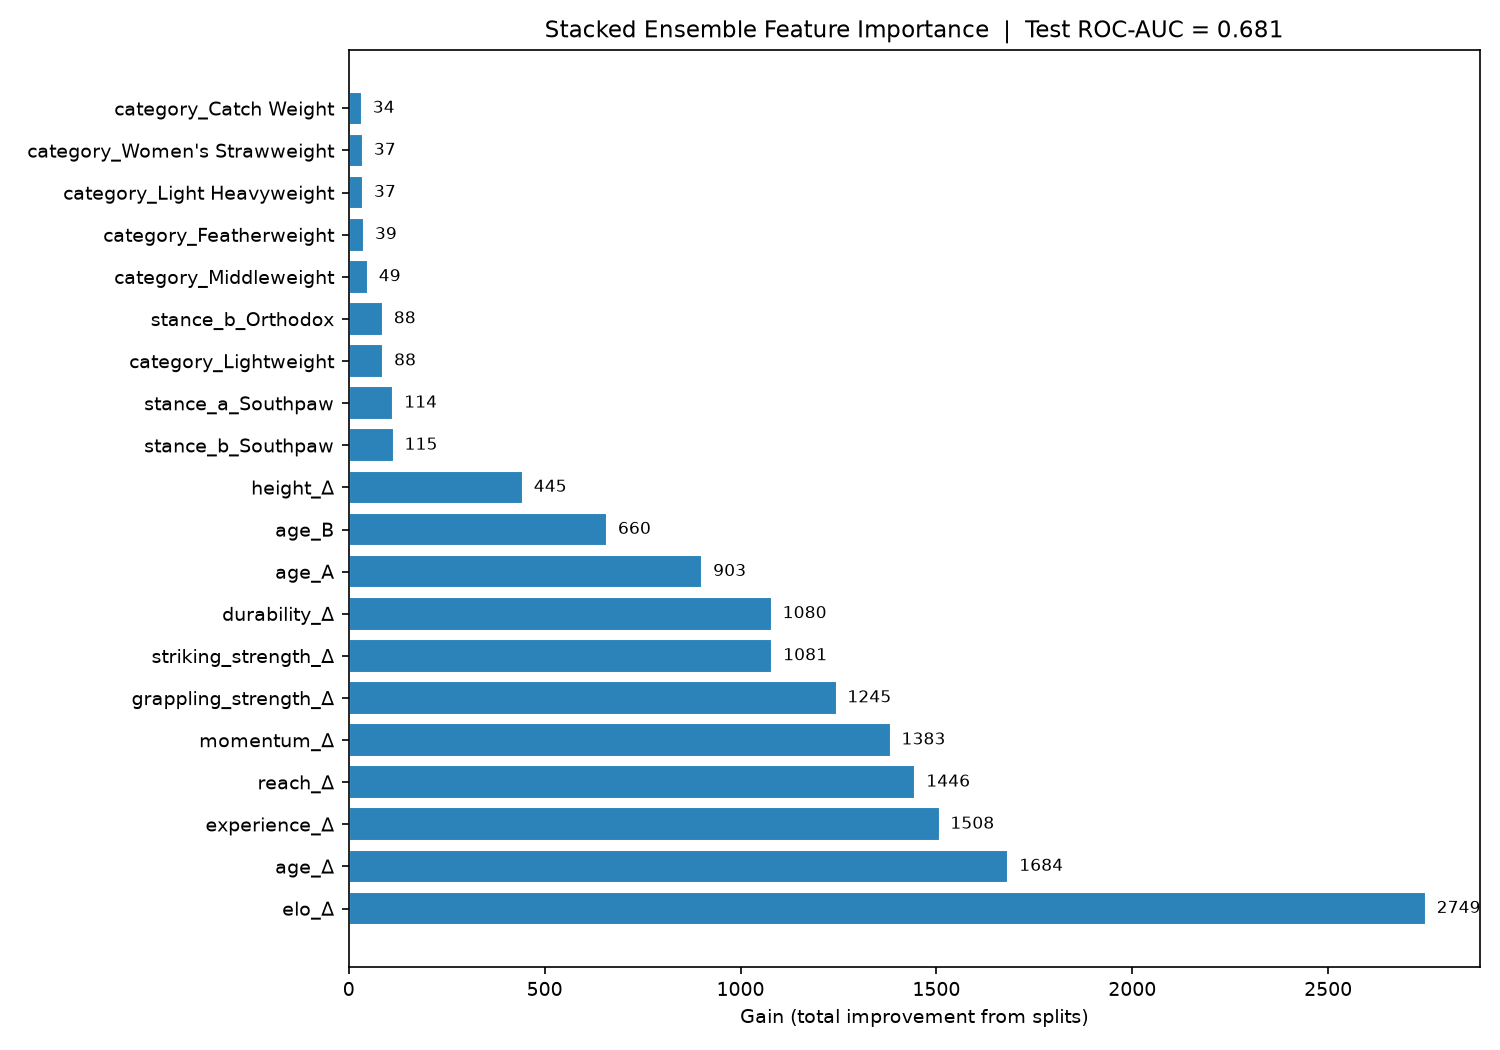
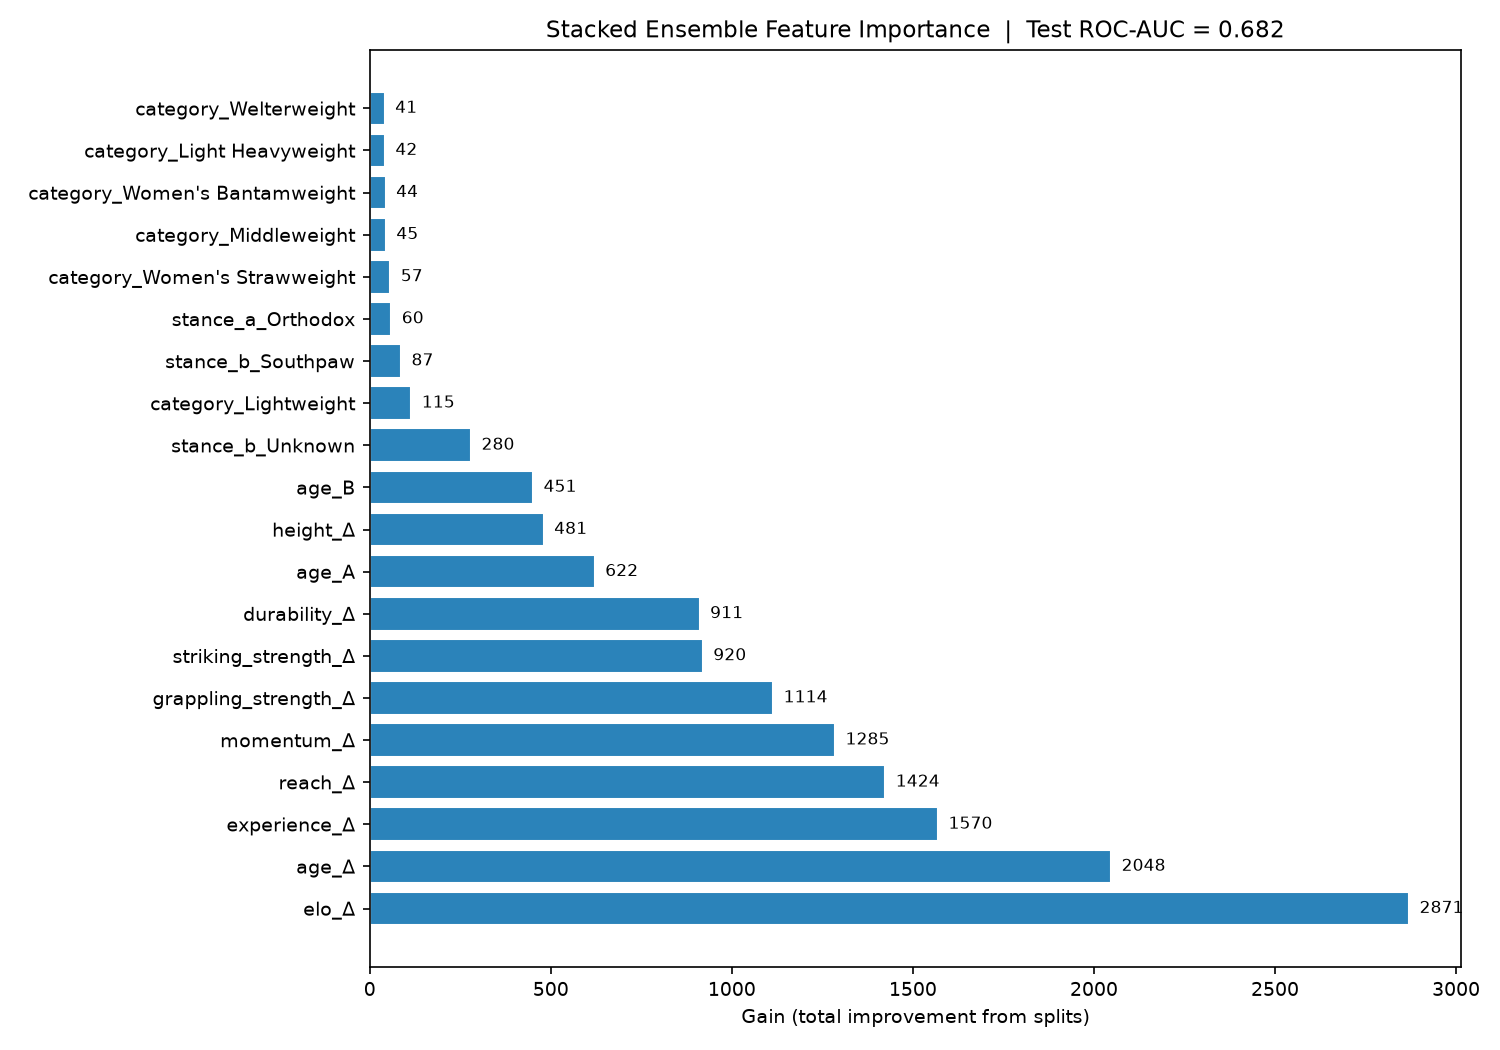
feat: calibrate stacked ensemble probabilities (Platt/isotonic, nested OOF)
Add PlattCalibrator and nested-CV OOF calibration to ChronologicalStackingEnsemble; predict_proba returns calibrated probabilities. train_model fits isotonic and Platt calibrators, picks the winner by test Brier, stores it on the model, and logs the comparison. Remove class_weight=balanced from base and meta models (probabilities were skewed).

diff --git a/src/train_model.py b/src/train_model.py
@@ -4,6 +4,7 @@ import lightgbm as lgb
 import xgboost as xgb
 from sklearn.metrics import roc_auc_score, accuracy_score, log_loss, brier_score_loss
 from sklearn.linear_model import LogisticRegression
+from sklearn.isotonic import IsotonicRegression
 from sklearn.impute import SimpleImputer
 from sklearn.model_selection import TimeSeriesSplit
 from sklearn.pipeline import Pipeline
@@ -11,7 +12,7 @@ from sklearn.preprocessing import StandardScaler
 import joblib
 import warnings
 
-from ensemble_utils import ChronologicalStackingEnsemble
+from ensemble_utils import ChronologicalStackingEnsemble, PlattCalibrator
 from config import DATASET_PATH, MODEL_PATH, FEATURE_COLS_PATH, BASE_DIR
 warnings.filterwarnings("ignore")
 
@@ -92,7 +93,7 @@ def main():
         params = {k: np.random.choice(v) for k, v in lgb_param_grid.items()}
         m = lgb.LGBMClassifier(
             n_estimators=2000, verbose=-1, random_state=42, missing=float("nan"),
-            class_weight="balanced", max_depth=-1,
+            max_depth=-1,
             **params,
         )
         m.fit(X_train, y_train, eval_set=[(X_val, y_val)], eval_metric="logloss",
@@ -168,7 +169,6 @@ def main():
             verbose=-1,
             random_state=42,
             missing=float("nan"),
-            class_weight="balanced",
             max_depth=-1,
             **best_lgb_params,
         )
@@ -190,7 +190,7 @@ def main():
     lr_base = Pipeline([
         ("imputer", SimpleImputer(strategy="median")),
         ("scaler", StandardScaler()),
-        ("logreg", LogisticRegression(max_iter=3000, class_weight="balanced", solver="lbfgs")),
+        ("logreg", LogisticRegression(max_iter=3000, solver="lbfgs")),
     ])
 
     stacking_model = ChronologicalStackingEnsemble(
@@ -199,8 +199,12 @@ def main():
             ("xgb", build_xgb_model()),
             ("logreg", lr_base),
         ],
-        final_estimator=LogisticRegression(max_iter=3000, class_weight="balanced", solver="lbfgs"),
+        final_estimator=LogisticRegression(max_iter=3000, solver="lbfgs"),
         cv=TimeSeriesSplit(n_splits=5),
+        calibrators={
+            "isotonic": IsotonicRegression(out_of_bounds="clip"),
+            "platt": PlattCalibrator(),
+        },
     )
 
     print(f"\n{'='*50}")
@@ -209,11 +213,24 @@ def main():
     stacking_model.fit(X_train_all, y_train_all)
 
     final_model = stacking_model
-    y_prob = final_model.predict_proba(X_test)[:, 1]
+
+    raw_prob = final_model.predict_proba(X_test)[:, 1]
+    raw_ll = log_loss(y_test, raw_prob)
+    raw_bs = brier_score_loss(y_test, raw_prob)
+
+    calib_results = {"raw": {"prob": raw_prob, "ll": raw_ll, "bs": raw_bs}}
+    for name in ("isotonic", "platt"):
+        final_model.calibrator_name = name
+        p = final_model.predict_proba(X_test)[:, 1]
+        calib_results[name] = {"prob": p, "ll": log_loss(y_test, p), "bs": brier_score_loss(y_test, p)}
+    best_name = min(("isotonic", "platt"), key=lambda n: calib_results[n]["bs"])
+    final_model.calibrator_name = best_name
+
+    y_prob = calib_results[best_name]["prob"]
     y_pred = final_model.predict(X_test)
     acc = accuracy_score(y_test, y_pred)
-    ll = log_loss(y_test, y_prob)
-    bs = brier_score_loss(y_test, y_prob)
+    ll = calib_results[best_name]["ll"]
+    bs = calib_results[best_name]["bs"]
     roc = roc_auc_score(y_test, y_prob)
 
     print(f"\n{'='*50}")
@@ -224,6 +241,14 @@ def main():
     print(f"Brier score:  {bs:.4f}")
     print(f"ROC-AUC:      {roc:.4f}")
     print(f"LGB rounds:   {best_n_lgb}  |  XGB rounds:  {best_n_xgb}")
+
+    print(f"\n{'Probability calibration (test set)':^50s}")
+    print(f"  {'Method':<10s} {'Log Loss':>9s} {'Brier':>8s} {'best':>5s}")
+    print(f"  {'-'*35}")
+    for name in ("raw", "isotonic", "platt"):
+        tag = "  <-" if name == best_name else ""
+        print(f"  {name:<10s} {calib_results[name]['ll']:9.4f} {calib_results[name]['bs']:8.4f}{tag:>5s}")
+    print(f"  Calibrator OOF points: {len(final_model.oof_calib_probs_)}")
 
     # Probability calibration of the ensemble predictions
     bins = np.linspace(0.0, 1.0, 11)
@@ -318,6 +343,16 @@ def main():
         "best_n_xgb": best_n_xgb,
         "ensemble_estimators": ["lightgbm", "xgboost", "logistic_regression"],
         "ensemble_cv": "TimeSeriesSplit(n_splits=5)",
+        "calibration": {
+            "method": best_name,
+            "n_oof": int(len(final_model.oof_calib_probs_)),
+            "cal_test_log_loss": ll,
+            "cal_test_brier": bs,
+            "candidates": {
+                n: {"test_log_loss": calib_results[n]["ll"], "test_brier": calib_results[n]["bs"]}
+                for n in ("raw", "isotonic", "platt")
+            },
+        },
         "test_roc_auc": roc,
         "test_accuracy": acc,
         "feature_importance": importances.to_dict(orient="records"),

diff --git a/src/ensemble_utils.py b/src/ensemble_utils.py
@@ -1,16 +1,50 @@
+import copy
 import numpy as np
 from sklearn.base import clone
+from sklearn.model_selection import TimeSeriesSplit
+
+
+def _logit(p):
+    p = np.clip(np.asarray(p, dtype=float), 1e-6, 1 - 1e-6)
+    return np.log(p / (1 - p))
+
+
+class PlattCalibrator:
+    """Platt scaling: logistic regression on the log-odds of the raw probability."""
+
+    def __init__(self, C=1.0, max_iter=3000):
+        self.C = C
+        self.max_iter = max_iter
+
+    def fit(self, X, y):
+        from sklearn.linear_model import LogisticRegression
+
+        X = np.asarray(X)
+        logit = _logit(X[:, 0])
+        self.lr_ = LogisticRegression(C=self.C, max_iter=self.max_iter, solver="lbfgs")
+        self.lr_.fit(logit.reshape(-1, 1), np.asarray(y))
+        return self
+
+    def predict(self, X):
+        X = np.asarray(X)
+        logit = _logit(X[:, 0])
+        return self.lr_.predict_proba(logit.reshape(-1, 1))[:, 1]
 
 
 class ChronologicalStackingEnsemble:
-    def __init__(self, estimators, final_estimator, cv):
+    def __init__(self, estimators, final_estimator, cv, calibrators=None):
         self.estimators = estimators
         self.final_estimator = final_estimator
         self.cv = cv
+        self.calibrators = calibrators
+        self.calibrator_name = None
 
     @staticmethod
     def _as_frame(X):
         return X if hasattr(X, "iloc") else np.asarray(X)
+
+    def _select_rows(self, X, idx):
+        return X.iloc[idx] if hasattr(X, "iloc") else X[idx]
 
     def fit(self, X, y):
         X_frame = self._as_frame(X)
@@ -23,12 +57,8 @@ class ChronologicalStackingEnsemble:
             if len(train_idx) == 0 or len(val_idx) == 0:
                 continue
 
-            if hasattr(X_frame, "iloc"):
-                X_train_fold = X_frame.iloc[train_idx]
-                X_val_fold = X_frame.iloc[val_idx]
-            else:
-                X_train_fold = X_frame[train_idx]
-                X_val_fold = X_frame[val_idx]
+            X_train_fold = self._select_rows(X_frame, train_idx)
+            X_val_fold = self._select_rows(X_frame, val_idx)
             y_train_fold = y_array[train_idx]
             fold_predictions = []
 
@@ -56,7 +86,34 @@ class ChronologicalStackingEnsemble:
         final_estimator = clone(self.final_estimator)
         final_estimator.fit(self.oof_features_, self.oof_targets_)
         self.final_estimator_ = final_estimator
+
+        if self.calibrators:
+            self._fit_calibrators(X_frame, y_array)
         return self
+
+    def _fit_calibrators(self, X, y):
+        outer = TimeSeriesSplit(n_splits=5)
+        p_oof = []
+        y_oof = []
+        for train_idx, val_idx in outer.split(X):
+            if len(train_idx) == 0 or len(val_idx) == 0:
+                continue
+            X_tr = self._select_rows(X, train_idx)
+            X_va = self._select_rows(X, val_idx)
+            fold = ChronologicalStackingEnsemble(
+                self.estimators, self.final_estimator, self.cv, calibrators=None)
+            fold.fit(X_tr, y[train_idx])
+            p_oof.append(fold.predict_proba(X_va)[:, 1])
+            y_oof.append(y[val_idx])
+
+        self.oof_calib_probs_ = np.concatenate(p_oof)
+        self.oof_calib_targets_ = np.concatenate(y_oof)
+
+        self.calibrators_ = {}
+        for name, template in self.calibrators.items():
+            calib = copy.deepcopy(template)
+            calib.fit(self.oof_calib_probs_.reshape(-1, 1), self.oof_calib_targets_)
+            self.calibrators_[name] = calib
 
     def _stack_features(self, X):
         X_frame = self._as_frame(X)
@@ -68,7 +125,14 @@ class ChronologicalStackingEnsemble:
 
     def predict_proba(self, X):
         meta_features = self._stack_features(X)
-        return self.final_estimator_.predict_proba(meta_features)
+        full = self.final_estimator_.predict_proba(meta_features)
+        name = getattr(self, "calibrator_name", None)
+        if name and hasattr(self, "calibrators_") and name in self.calibrators_:
+            raw = full[:, 1]
+            calib = self.calibrators_[name].predict(raw.reshape(-1, 1))
+            calib = np.clip(np.asarray(calib, dtype=float).ravel(), 1e-6, 1 - 1e-6)
+            return np.column_stack([1.0 - calib, calib])
+        return full
 
     def predict(self, X):
         return (self.predict_proba(X)[:, 1] >= 0.5).astype(int)

diff --git a/AGENTS.md b/AGENTS.md
@@ -4,7 +4,7 @@
 1. `python src/scraping/build_events_index.py` → `data/events_index.json` (skips upcoming/unfinished events)
 2. `python src/scraping/scrape_ufc.py` → `data/fights.json`, `data/fighters_cache.json`
 3. `python src/feature_engineering.py` → `data/dataset.csv`
-4. `python src/train_model.py` → `models/ufc_stacking_ensemble.pkl` + `_meta.pkl` + feature importance PNG (run manually)
+4. `python src/train_model.py` → `models/ufc_stacking_ensemble.pkl` + `_meta.pkl` + feature importance PNG (run manually; also fits isotonic/Platt probability calibrators on nested-CV OOF and picks the best by test Brier — slow)
 5. `python src/prediction/predict.py` — interactive CLI (SHAP). Args: `--model`, `--features`.
 6. `python src/prediction/predict_event.py --event "UFC 328: ..."` — event JSON with winner probabilities. Args: `--exact`, `--model-path`, `--features-path`.
 7. `python src/prediction/predict_batch.py "FighterA,FighterB,Category,5" "FighterC,FighterD"` — batch table. Each arg: `F1,F2[,WeightClass[,Rounds]]`. Rounds defaults 3, WeightClass defaults "Catch Weight". No model-path CLI flags (hardcoded paths). Quirk: in the 3-field form `F1,F2,X`, `X` is parsed as rounds if it's `"3"`/`"5"`, otherwise as weight class.
@@ -22,7 +22,7 @@ python src/feature_engineering.py
 - Activate the venv first — `.venv/bin/activate` on Linux/macOS, `.venv/Scripts/activate` on Windows. All scripts from repo root.
 - Scraper needs `playwright install chromium` before first run (both `build_events_index.py` and `scrape_ufc.py` use Playwright async headless Chromium).
 - Scrapers are resumable: `scrape_ufc.py` only processes events with `"scrapped": false` in `data/events_index.json`, flipping the flag per event; `build_events_index.py` preserves existing entries.
-- Step 4 runs 50 random LightGBM + 20 random XGBoost hyperparameter trials (early stopping) — slow; run it manually and let it finish.
+- Step 4 runs 50 random LightGBM + 20 random XGBoost hyperparameter trials (early stopping), then a nested-CV pass to calibrate probabilities — slow; run it manually and let it finish. Calibrators are fitted on out-of-fold stacking probabilities via an outer `TimeSeriesSplit(n_splits=5)` (no lookahead); `isotonic` and `platt` (`PlattCalibrator` in `ensemble_utils.py`) are compared on the test set by Brier score and the winner is stored on the model (`model.calibrator_name`). `predict_proba` returns calibrated probabilities; `predict` still thresholds at 0.5.
 - Model artifacts use Git LFS (`*.pkl filter=lfs` in `.gitattributes`). No linting, typechecking, or test harness.
 
 ## Architecture
@@ -31,7 +31,7 @@ python src/feature_engineering.py
 `ChronologicalStackingEnsemble` (`src/ensemble_utils.py`) — **LightGBM + XGBoost + LogisticRegression** (Pipeline: imputer→scaler→LR) with a meta-LR, `TimeSeriesSplit(n_splits=5)` OOF. Metadata stores `raw_feature_cols`, `cat_cols`, `numeric_cols`, `feature_cols_final`, `model_type="stacking"`.
 
 Single model, trained on the shared feature pipeline:
-- **Winner** (binary): `ufc_stacking_ensemble.pkl` — prob fighter A wins
+- **Winner** (binary): `ufc_stacking_ensemble.pkl` — prob fighter A wins (calibrated: see Setup note)
 
 ### Shared Modules
 - `src/config.py` — paths and constants (`CUTOFF_DATE`, `ELO_K`, `ELO_INITIAL`, `WEIGHT_CLASSES`).
